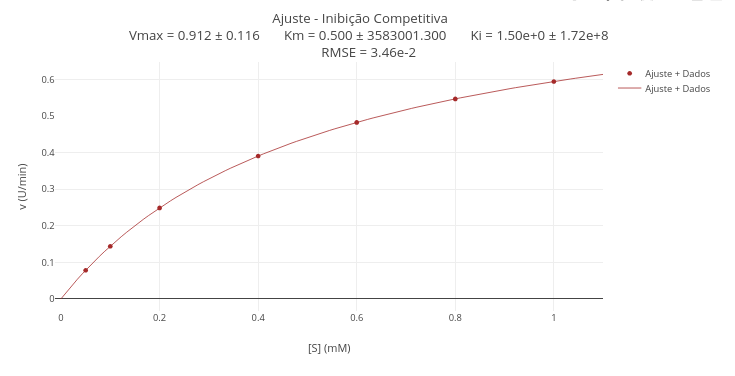
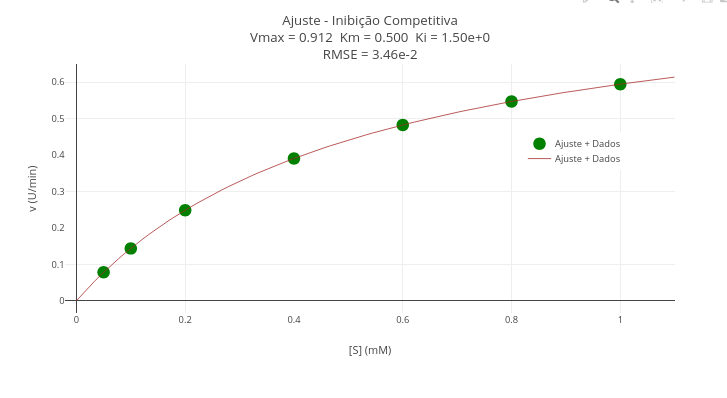
non error gauss 2

diff --git a/en/nivel/superior/jsplotly/Eq/jsp_ajNonLinGauss2.html b/en/nivel/superior/jsplotly/Eq/jsp_ajNonLinGauss2.html
@@ -623,6 +623,10 @@ const trace = {
   x: S,
   y: v,
   mode: 'markers',
+  marker: {
+    size: 16,           
+    color: 'brown'    
+  },
   type: 'scatter',
   name: 'Ajuste + Dados',
   line: { color: 'brown', width: 1 }

diff --git a/pt/nivel/superior/jsplotly/Eq/jsp_ajNonLinGauss2.html b/pt/nivel/superior/jsplotly/Eq/jsp_ajNonLinGauss2.html
@@ -623,6 +623,10 @@ const trace = {
   x: S,
   y: v,
   mode: 'markers',
+  marker: {
+    size: 16,           
+    color: 'brown'    
+  },
   type: 'scatter',
   name: 'Ajuste + Dados',
   line: { color: 'brown', width: 1 }
